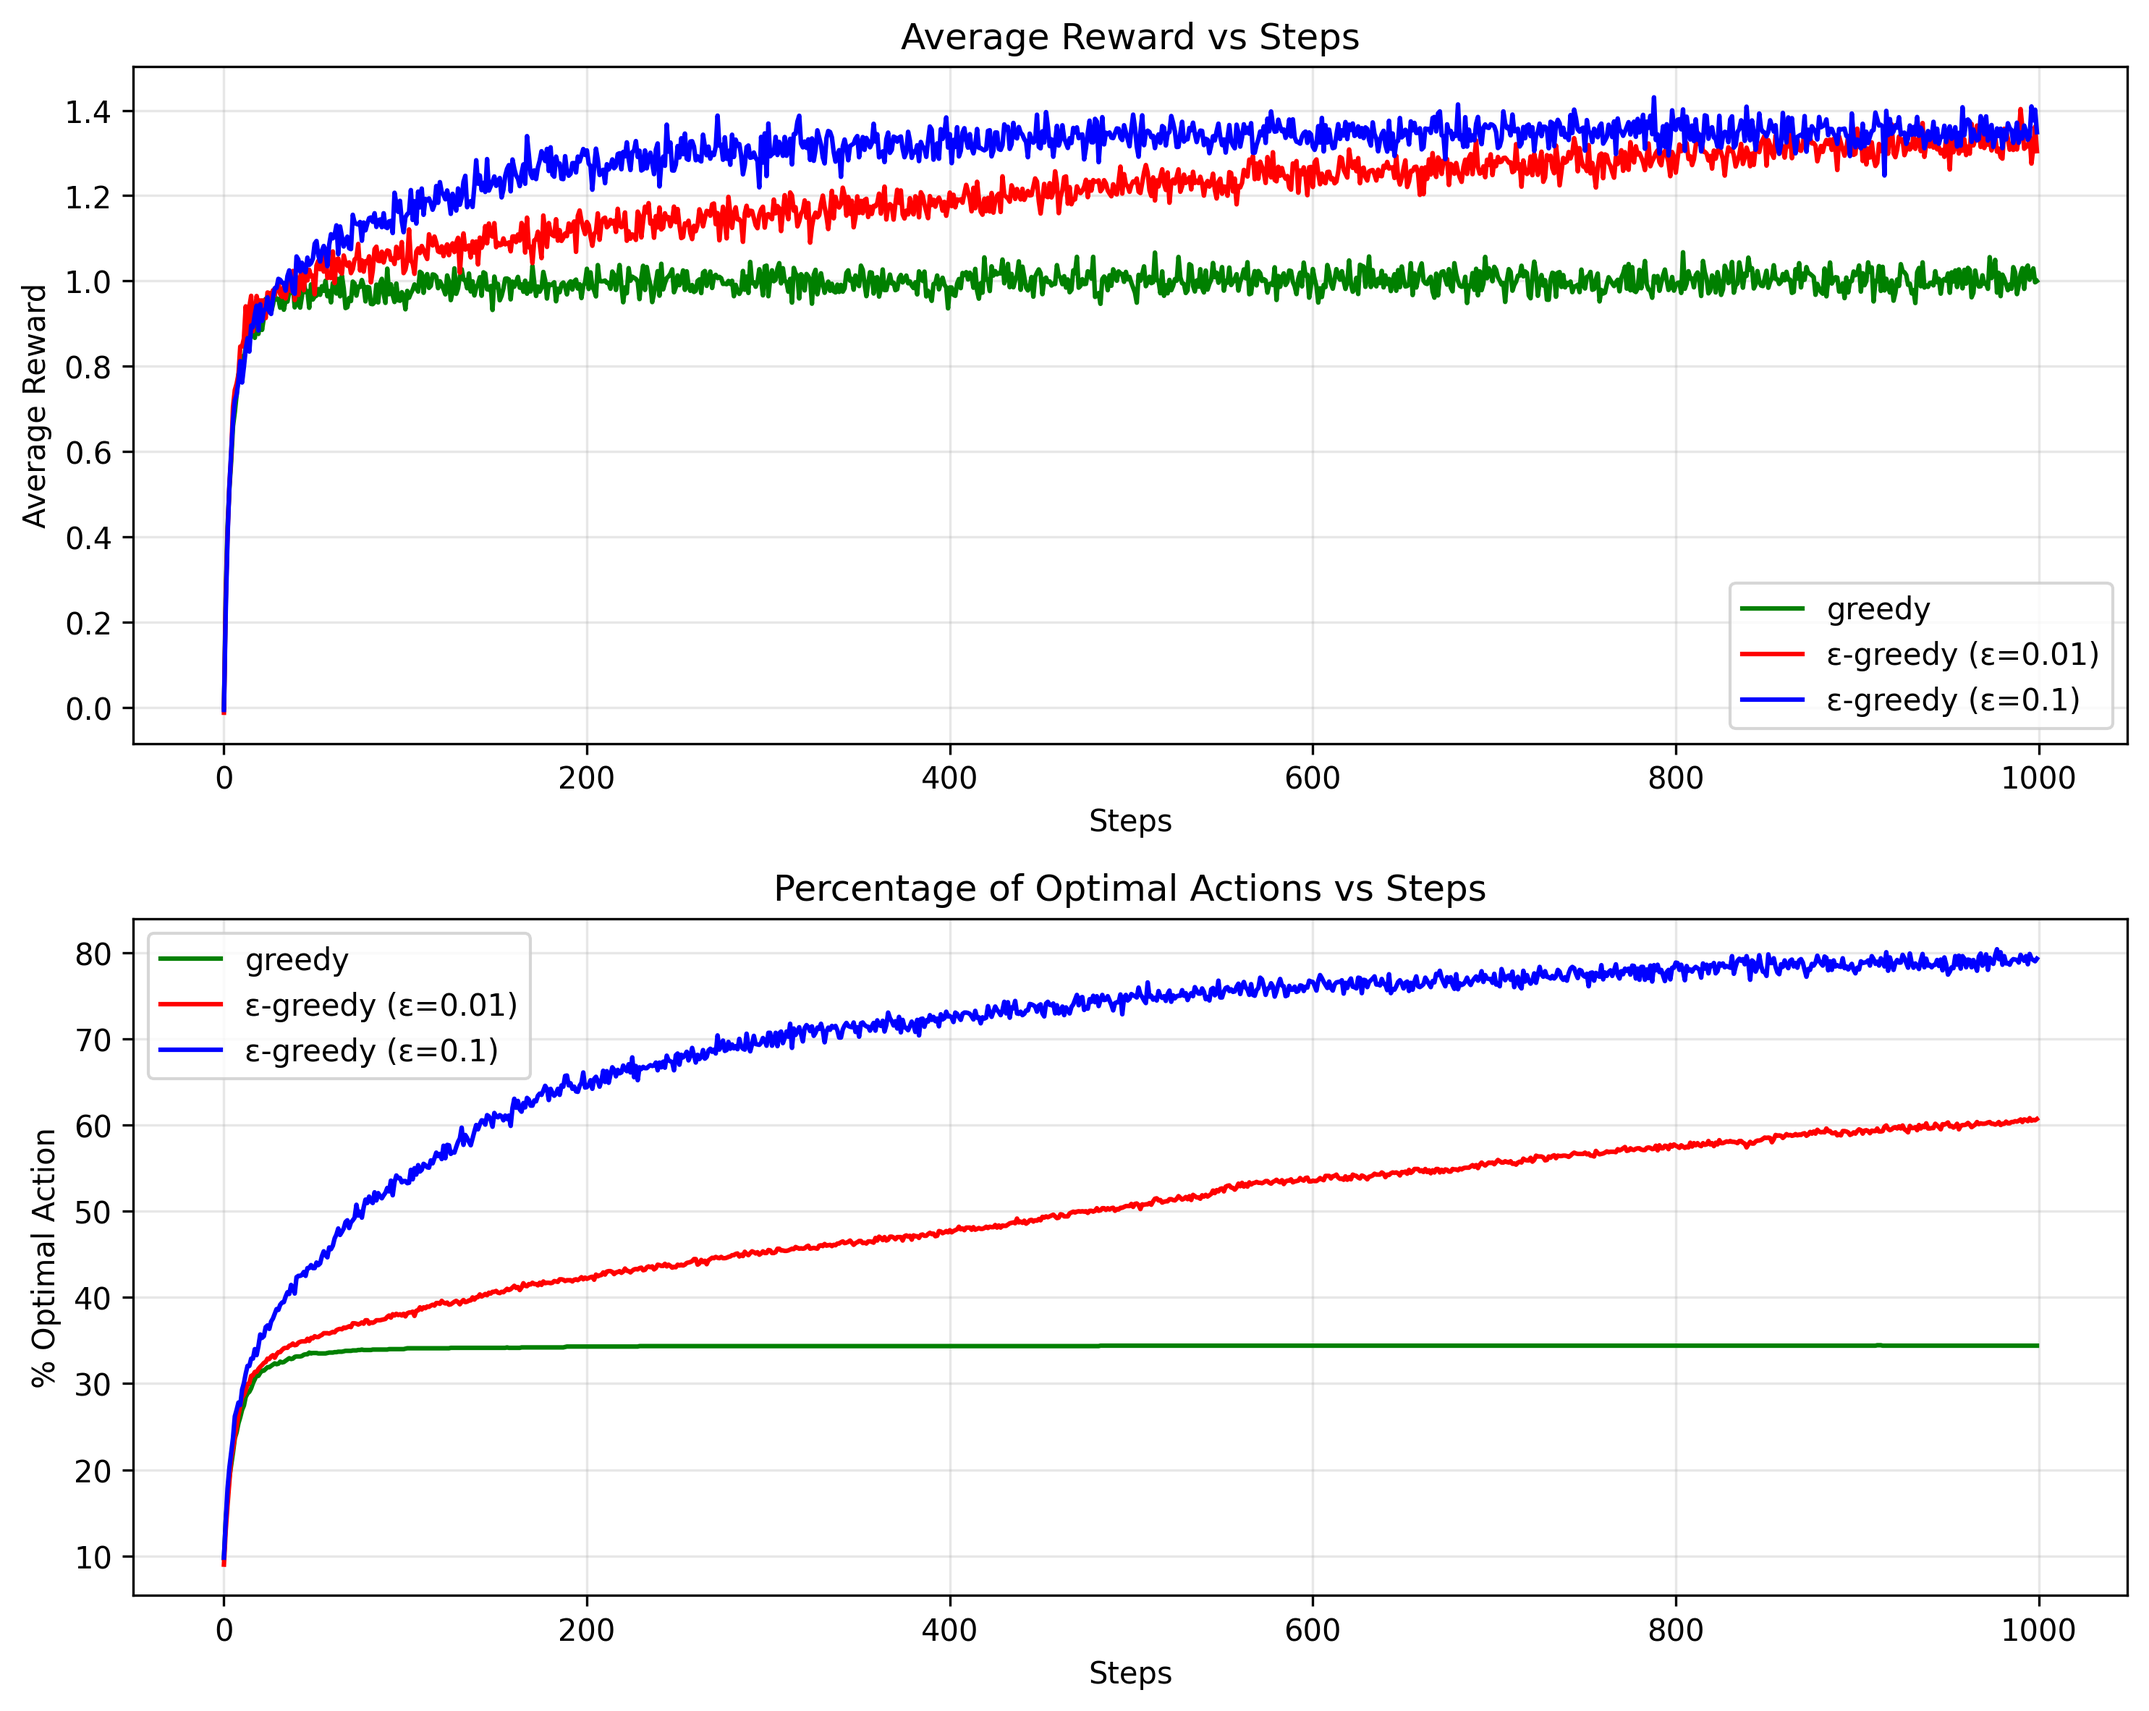
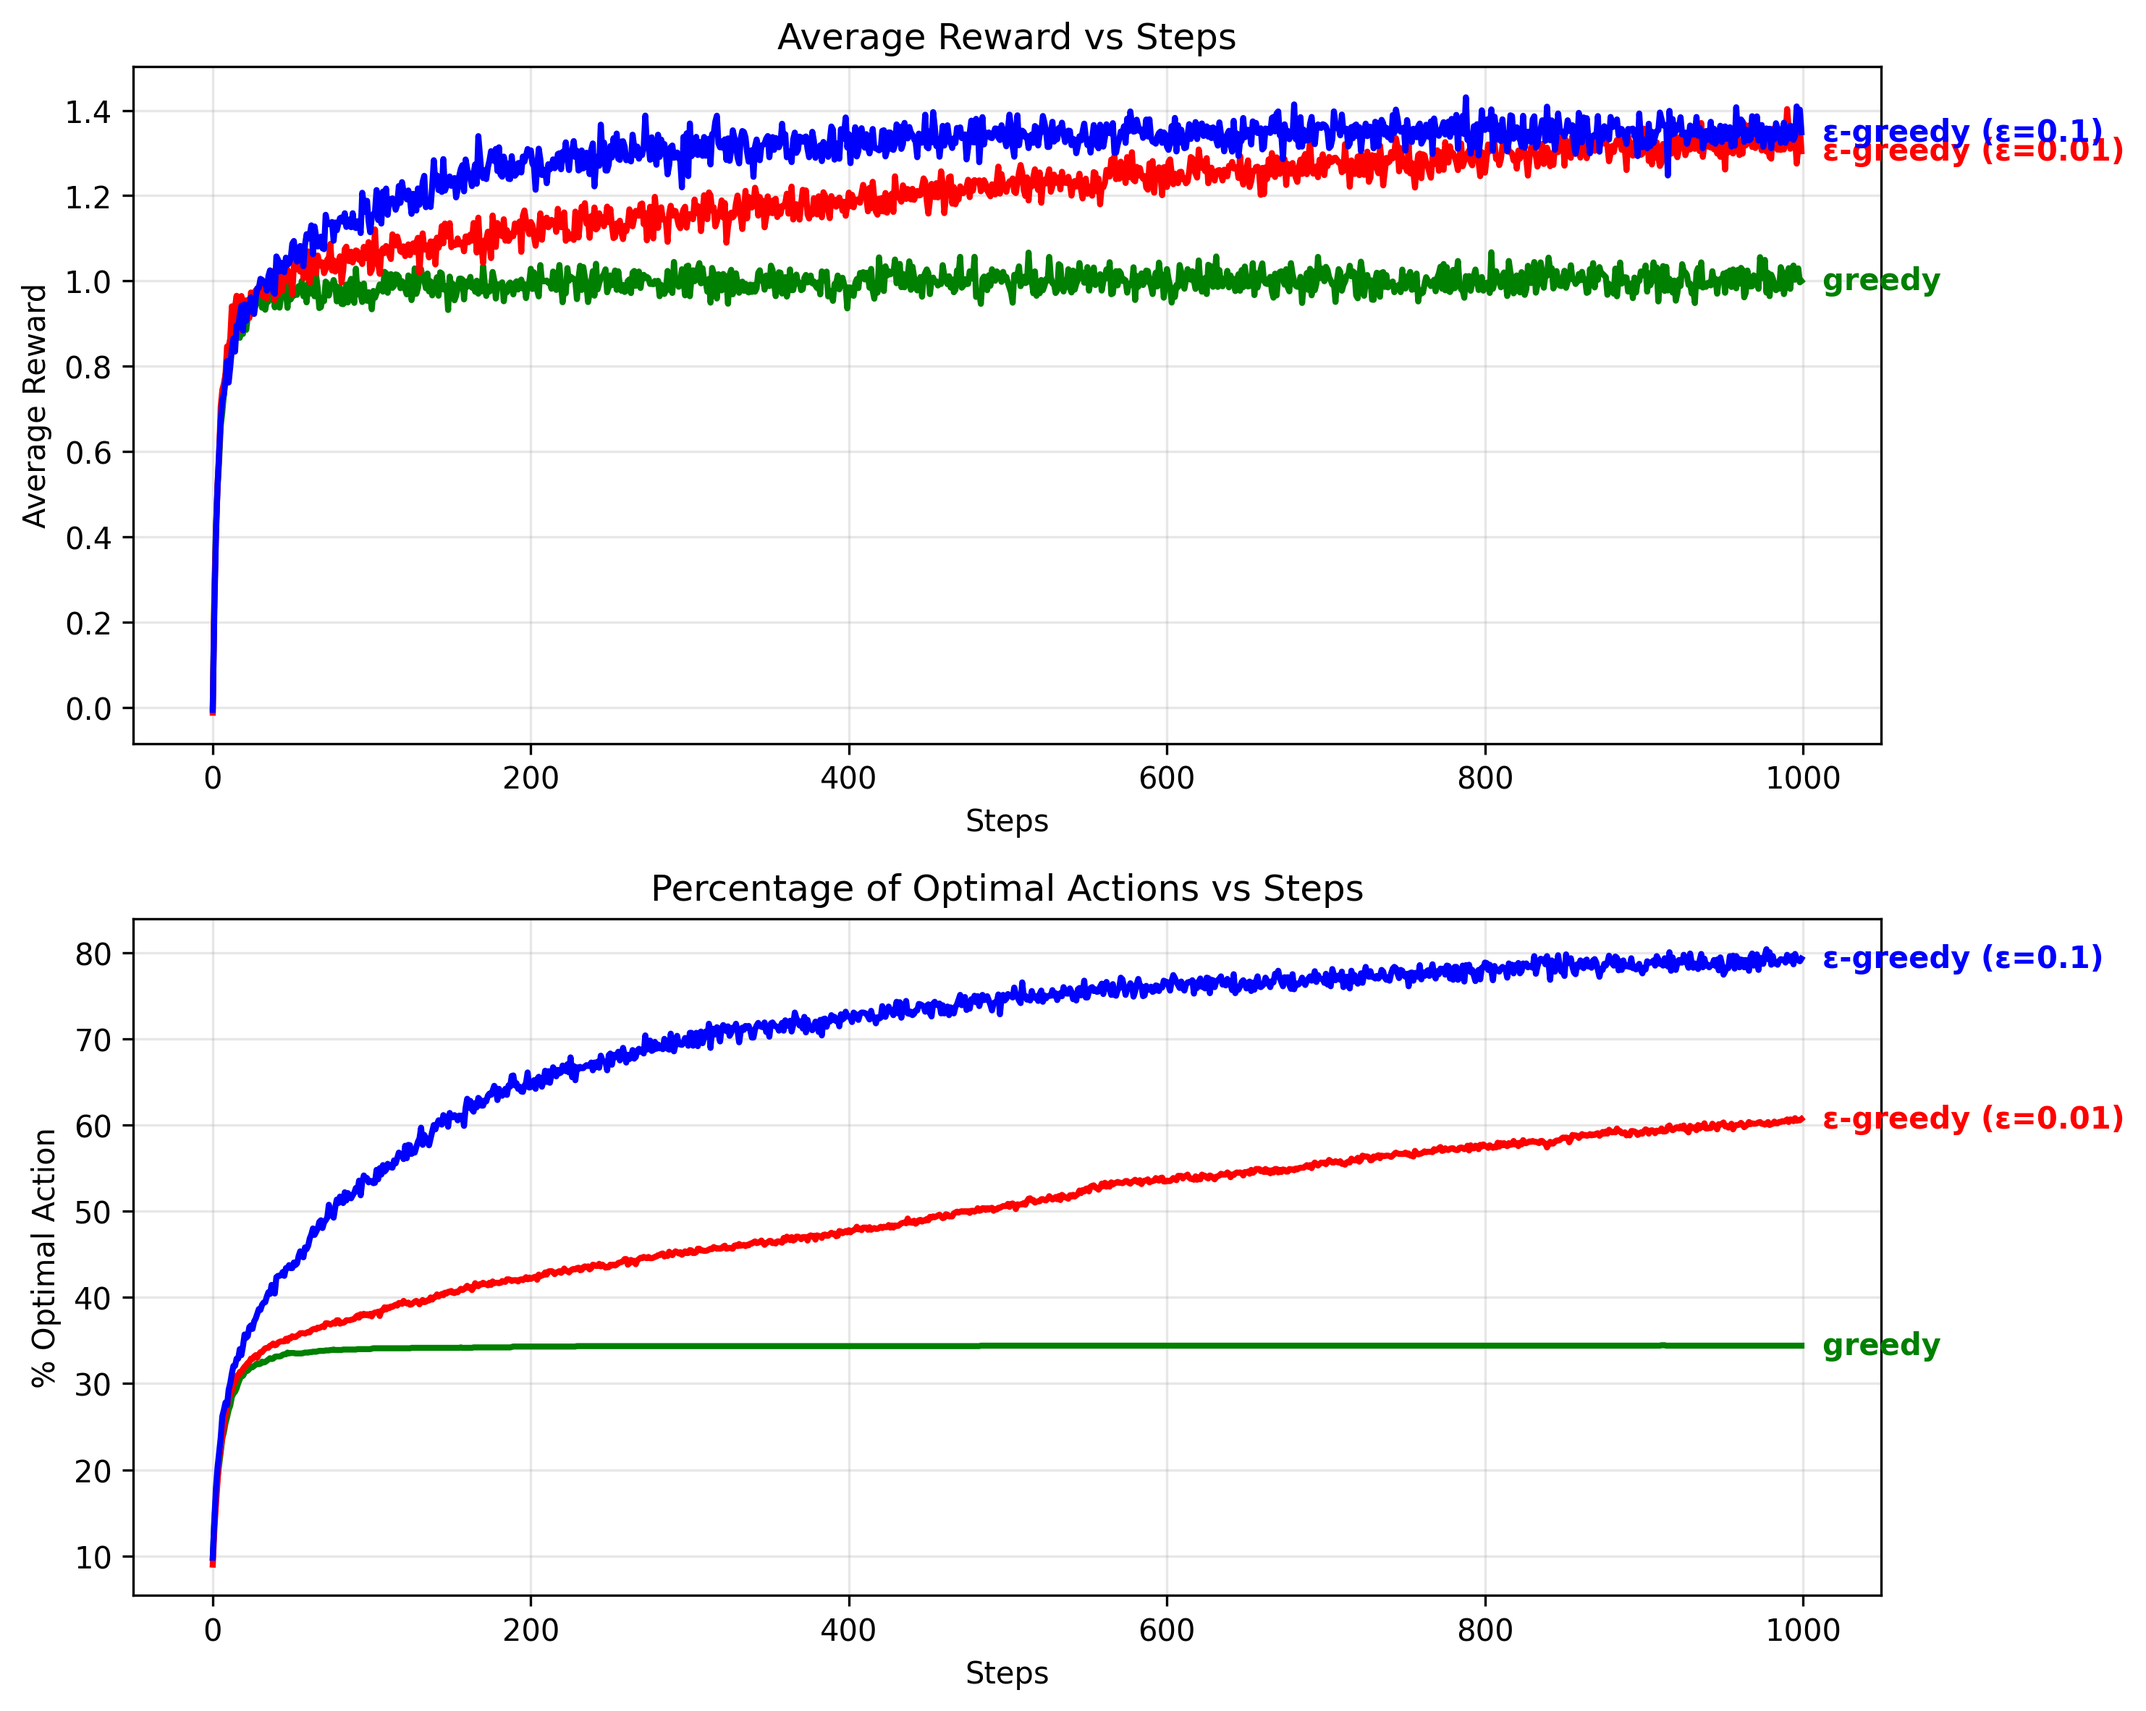
Change S&B plot labels

diff --git a/examples/sutton_barto_bandit_comparison.py b/examples/sutton_barto_bandit_comparison.py
@@ -169,28 +169,39 @@ def plot_results(results: List[ExperimentResult], save_path: Optional[str] = Non
 
     colors = ["green", "red", "blue", "orange", "purple"]
 
-    # Plot average reward
+    # Plot average reward with line labels
     for i, result in enumerate(results):
         color = colors[i % len(colors)]
-        ax1.plot(result.average_rewards, label=result.algorithm_name, color=color)
+        line = ax1.plot(result.average_rewards, color=color, linewidth=2)
+
+        # Add label at the end of each line
+        final_reward = result.average_rewards[-1]
+        ax1.text(len(result.average_rewards) - 1, final_reward,
+                f"  {result.algorithm_name}",
+                color=color, fontweight='bold',
+                verticalalignment='center')
 
     ax1.set_xlabel("Steps")
     ax1.set_ylabel("Average Reward")
     ax1.set_title("Average Reward vs Steps")
-    ax1.legend()
     ax1.grid(True, alpha=0.3)
 
-    # Plot percentage of optimal actions
+    # Plot percentage of optimal actions with line labels
     for i, result in enumerate(results):
         color = colors[i % len(colors)]
-        ax2.plot(
-            result.optimal_action_rates * 100, label=result.algorithm_name, color=color
-        )
+        optimal_rates_pct = result.optimal_action_rates * 100
+        line = ax2.plot(optimal_rates_pct, color=color, linewidth=2)
+
+        # Add label at the end of each line
+        final_rate = optimal_rates_pct[-1]
+        ax2.text(len(optimal_rates_pct) - 1, final_rate,
+                f"  {result.algorithm_name}",
+                color=color, fontweight='bold',
+                verticalalignment='center')
 
     ax2.set_xlabel("Steps")
     ax2.set_ylabel("% Optimal Action")
     ax2.set_title("Percentage of Optimal Actions vs Steps")
-    ax2.legend()
     ax2.grid(True, alpha=0.3)
 
     plt.tight_layout()
